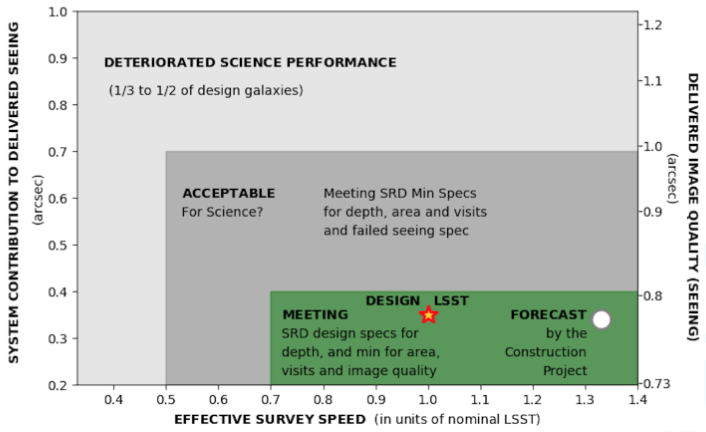
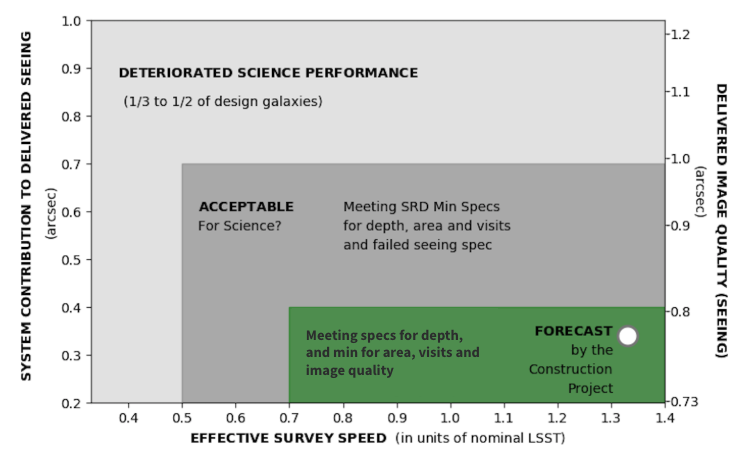
Post MB version with more criteria and draft process.

Changed region(s): [[0.0, 0.0, 0.9972, 0.9931], [0.4363, 0.4213, 0.6856, 0.5718]]

diff --git a/criteria.tex b/criteria.tex
@@ -4,43 +4,69 @@ Armed with an understanding of the {\it as--built} system performance as outline
 
 The criteria articulated below are meant only to provide gating guidance signifying the survey start. There will be key processes within the overall system, including data management and processing where further work for improvements are required or desired after handover (beyond the construction project requirements). Unless these would prevent the acquisition and saving of science quality data, thereby delaying the survey start, they are not discussed or enumerated here.  These and other criteria (TBD) will be used to gauge and monitor the overall performance of the Observatory and progress towards the 10--year survey objectives going forward, with nominal $T_0$ defined by when start criteria described herein are met.
 
-The initial set of criteria developed by Operations team were discussed with the Science Advisory Committee and community at the 2024 Rubin Community Workshop. These criteria have evolved since that meeting and are presented here in the table below.
+The initial set of criteria developed by Operations team were discussed with the Science Advisory Committee and community at the 2024 Rubin Community Workshop. These criteria have evolved since that meeting and are presented here in Table~\ref{tab:criteria}.
 
 \begin{table}[]
 \renewcommand{\arraystretch}{2}
 \small
 \centering
 \caption{Survey Start Criteria}\label{tab:criteria}
-\begin{tabular}{|p{0.25in}|p{1in}|p{4in}|p{1.0in}|}
+\begin{longtable}{|p{0.25in}|p{1in}|p{4in}|p{1.0in}|}
 \hline
 Item & Criterion & Description& Status \\
 \hline \hline
 
-1 & \makecell[l]{LSSTCam\\ Maintenance} & Before the completion of SV, it is understood whether or not off TMA Camera maintenance will be needed within the first year of Operations.& \makecell[l]{No off TMA \\maintenance\\ required.}  \\\hline  
+1 & \makecell[l]{LSSTCam\\ Maintenance} & Before the completion of SV, it is understood whether or not off TMA Camera maintenance will be needed within the first year of Operations.& \makecell[l]{\\No off TMA \\maintenance\\ required.\\}  \\\hline  
 
 2 & SRD & All science requirements that can be verified with SV data are verified or expected to be verified within 3 months of completion of SV. & Check status at CCR3 \\\hline
 
-3 & Dome & The dome environment is not limiting typical performance. &\makecell[l]{ Not controlled \\until after \\Handover} \\\hline
+3 & Dome & The dome environment is not limiting typical performance. &\makecell[l]{\\Not controlled \\until after \\Handover\\}\\\hline
 
 4 & Calibration & All necessary calibration data products are available at the time any LSST data are obtained or can be obtained after the fact without invalidating the observed data for inclusion in the LSST. & Check status at CCR3 \\\hline
 
-5 & DIQ & The ''System'' contribution to the measured Delivered Image quality is better than or equal to 0.45$\arcsec$ & \makecell[l]{Currently 0.6$\arcsec$ \\system \\contribution}\\\hline
+5 & DIQ & The ''System'' contribution to the measured Delivered Image Quality is better than or equal to 0.45$\arcsec$ & \makecell[l]{\\Currently 0.6$\arcsec$ \\system \\contribution\\}\\\hline
 
-6 & Normalized \'{E}tendue (\it{eF}) & Survey Speed  is $>$ 0.7. & Currently 0.68 \\\hline
+6 & DIQ Uniformity& The ''System'' contribution to the measured Delivered Image Quality can vary over the field of view such that 10$\%$ or less of the FOV has a system contribution of up to 0.52$\arcsec$ (see LSST system specifications LSR-REQ-0008.  & \makecell[l]{\\Currently\\ not meeting \\for typical\\images\\}\\\hline
 
-7 & Cadence & The scientific merits and technical feasibility of the planned survey scheduler algorithms for DR1 have bee reviewed and verified. & In progress\\\hline
+7 & Ellipticity & Ellipticity for a single image will typically be as specified in the LSST system requirements as  LSR-REQ-0092. This is $\leq$ 0.04 with 5$\%$ or fewer outliers beyond 0.07.& \makecell[l]{\\In SV, \\typically not \\meeting\\}\\\hline
 
-8 & Early Science & DP2 observations are completed as planned \citep{RTN-011}.& \makecell[l]{SV is complete; \\a report will be \\delivered by \\October.} \\
+8 & Normalized \'{E}tendue (\it{eF}) & Survey Speed  is $>$ 0.7. & Currently 0.68 \\
 
 \hline
-\end{tabular}
+\end{longtable}
+\end{table}
+
+\newpage 
+
+\begin{table}[]
+\renewcommand{\arraystretch}{2}
+\small
+\centering
+\caption*{Survey Start Criteria Continued}
+\begin{longtable}{|p{0.25in}|p{1in}|p{4in}|p{1.0in}|}
+\hline
+Item & Criterion & Description& Status \\
+\hline \hline
+
+10 & LHN ready & The Long Haul Network will be working reliably and not be a limiting factor in Alert Production & LHN is ready and not limiting Alert Production\\\hline
+
+11 & DM ready& The data management system is ready & DM is ready \\\hline
+
+12 & Early Science & DP2 observations are completed as planned \citep{RTN-011}.& \makecell[l]{\\SV is complete; \\a report will be \\delivered by \\October.\\} \\
+
+\hline
+\end{longtable}
 \end{table}
 
 The initial boundary conditions for determining the start criteria are that the construction project has successfully accomplished its own Construction Completeness Criteria (\cite{SITCOMTN-005}) and has passed the third Construction Completeness Review (CCR3).  Successful completion of CCR3 means NSF and DOE have accepted the system as the one that was intended to be built and will operate to conduct the 10-year LSST science program.  
 
 The survey start criteria cover a range of contexts.  The criteria are not meant to be comprehensive with respect to gauging and monitoring LSST's scientific progress and success. They are intended to serve as a guide for the confident commencement of the survey -- effectively establishing what will be referred to as LSST T$_0$.  Most of the defined criteria look to be well in hand based on what we know about commissioning progress and system performance as reported at CCR2/ORR1.  Of the 8 criteria enumerated we have identified what we call ''The Big 3,'' : Delivered Image Quality (DIQ) with two primary contributors -- (1) the interior dome environment plus (2) the hardware system (optics, tracking etc.), and (3) the survey speed or Normalized \'{E}tendue. 
 
-Looking at the criteria in Table~\ref{tab:criteria}, Item 1 is already met. We do not expect to have to remove the camera for maintenance before we begin the survey. Item 2 is needed to ensure some key aspects of the system don't need verification before we embark on the LSST. Some long term SRD requirements need a significant amount of data to finally validate. But we can be assured data being taken are going to be valid for the LSST if the requirements that can be validated with SV data have been validated. This will be confirmed at CCR3. The calibration system (item 4)  is in the advanced stages of validation. By CCR3, we can be assured no outstanding calibration needs will limit the taking of images for the LSST. For item 7, the Survey Cadence Optimization Committee has delivered to the Operations Directorate one (or more) proposed survey cadence algorithms to be implemented using the Feature Based Scheduler.  The scientific merits and technical feasibility of the proposed algorithm(s) will have been reviewed (If more than one proposal is provided a selection is made).  This selection will be the core algorithm adopted through LSST observations leading to the first data release DR1.  Remaining minor adjustments to the adopted algorithms are expected to be made as needed.  The adopted cadence algorithm has been verified with simulations using as--built performance, by on-sky operations using the Feature Based Scheduler.  Once SV data taking is complete, we will know the content of DP2 (item 8) and be able to decide whether or not any significant augmentations are critical for community preparation prior to data release 1 \citep[DR1; see][]{RTN-011}. 
+Looking at the criteria in Table~\ref{tab:criteria}, Item 1 is already met. We do not expect to have to remove the camera for maintenance before we begin the survey. Item 2 is needed to ensure some key aspects of the system don't need verification before we embark on the LSST. Some long term SRD requirements need a significant amount of data to finally validate. But we can be assured data being taken are going to be valid for the LSST if the requirements that can be validated with SV data have been validated. This will be confirmed at CCR3. The calibration system (item 4)  is in the advanced stages of validation. By CCR3, we can be assured no outstanding calibration needs will limit the taking of images for the LSST. 
+
+For item 9, the Survey Cadence Optimization Committee has delivered to the Operations Directorate one (or more) proposed survey cadence algorithms to be implemented using the Feature Based Scheduler.  The scientific merits and technical feasibility of the proposed algorithm(s) will have been reviewed (If more than one proposal is provided a selection is made).  This selection will be the core algorithm adopted through LSST observations leading to the first data release DR1.  Remaining minor adjustments to the adopted algorithms are expected to be made as needed.  The adopted cadence algorithm has been verified with simulations using as--built performance, by on-sky operations using the Feature Based Scheduler.  SV data taking is complete, so we know the content of DP2 from SV (item 12) and only now need to decide whether or not any significant augmentations are critical for community preparation prior to data release 1 \citep[DR1; see][]{RTN-011}. 
+
+For items 10 and 11, our SV experience shows these are ready, or in any case, sufficient for starting the survey. The Long Haul Network (LHN) has been working reliably and will not limit alert production. DM has produced, from end to end, Data Preview 1 \citep[DP1; see][]{RTN-095}. There is continuous development to be done, but nothing to stop the start of the survey.  
 
 This leaves ''The Big 3'' -- Delivered Image Quality (optics + dome environment) and Normalized \'{E}tendue.
 
@@ -50,6 +76,8 @@ The single most important gain needed to get to the LSST start is clearly the ty
 
 Improving the system contribution to the DIQ requires continued effort on the control of optics and the dome environment. Putting this together with the criteria above results in the region of the performance diagram we can use to gate starting the LSST as depicted in Figure~\ref{speed3}. The survey can begin once the system contribution to DIQ is 0.45$\arcsec$ or less and the effective survey speed is 1.01 or better (see Table~\ref{tab:factors} and assume System Availability is 75$\%$).
 
+Equally important for the image quality is that the typical LSST images meet the requirements for uniformity across the field of view and ellipticity for bright isolated stars. These are given in Table~\ref{tab:criteria}. For uniformity to start the survey, we identify the value of the allowed contribution in the worst quartile of the overall seeing profile given in the SRD. This is 0.52$\arcsec$. 
+
 \subsection{Dome Environmental Control}
 The dome will be the last major subsystem to be completed. Indeed it will not be done until mid 2026. The critical aspects that are needed are: to install, provide control for, and optimize the actuators for the dome louvers and the installation of the HVAC ductwork used for daytime thermal conditioning of the dome interior. There are 40 louvers, and some large fraction need to be operable (open at fractions consistent with telemetry in real time for temperatures and wind). The first actuators are installed now and one louver has been opened at night. Still more will need to be brought on line after the handover to meeting the system image quality criterion (we currently expect 12 will be operable after handover). If the louvers limit us to worse than typical system DIQ performance, we won't be able to start the LSST until they are largely deployed and in routine operation. 
 
@@ -57,7 +85,7 @@ There are large ducts that will provide conditioned air distribution supplied by
 
 Further use of available temperature sensors on the telescope and in the dome will help on going analyses aimed at improving the AOS and thermal control of the optics in real time. 
 
-The total contribution to DIQ from the dome environment is modest. Including all sources of turbulence generated by the facility, the budget (i.e residual contribution after control) to contribute to the DIQ is only 0.09$\arcsec$. Clearly all systems for controlling these contributions need to be working well and reliably. The observatory will need to rely on the ability to characterize parts of the DIQ coming from this environment. Thus we will prioritize reliable operation and calibration of our DIMM, in-dome seeing monitors, as well as the atmospheric profiler on Cerro Pach\'{on}, RINGSS.  
+The total contribution to DIQ from the dome environment is modest. Including all sources of turbulence generated by the facility, the budget (i.e residual contribution after control) to contribute to the DIQ is only 0.09$\arcsec$. Clearly all systems for controlling these contributions need to be working well and reliably. The observatory will need to rely on the ability to characterize parts of the DIQ coming from this environment. Thus we will prioritize reliable operation and calibration of our DIMM, in-dome seeing monitors, as well as the atmospheric profiler on Cerro Pach\'{o}n, RINGSS.  
 
 \subsection{Normalized \'{E}tendue}
 Much of the effective speed (Normalized  \'{E}tendue) is already demonstrated to be sufficient to start the LSST, The field of view factor, fA, is excellent and stable. The sensitivity factor, fS, is also very good. This factor has the potential to help overall performance because of its dependence on delivered image quality. Getting the system contribution from 0.6 to 0.4 (coupled with site free air atmospheric seeing of 0.7$\arcsec$) would raise fS from 0.94 to 1.3. Apart from this, all the optics are delivered as is the focal plane. The performance of all these components is excellent and can be maintained. The observing efficiency or fO is also in good shape. The telescope dynamic performance (slew speed, acceleration, and jerk) is sufficient for the LSST planned cadence. 

diff --git a/process.tex b/process.tex
@@ -1,0 +1,27 @@
+\section{Process to decide when to begin the LSST}
+
+In the following, we describe the process to reach the decision to start the LSST given an understanding of the state of the system and it's performance as outlined above. We envision three phases to be able to successfully start the LSST.  These are 1 Preparation phase; 2 Implementation phase; 3 Decision,$-$Approval$-$Launch phase. 
+
+\subsection{Preparation Phase (now - Oct 25th)}
+
+We are actively setting up an Early Operations Optimization Team which is distinct from the organization in the Rubin Operations steady state plan \citedsp{RDO-018}. This team is largely made up of staff from the Construction era SIT-COM (System Integration and Test $-$ Commissioning)  team who have just finished commissioning the system. This team, it's daily workflows and planning coupled with the nightly execution of observations by the Nighttime Operations Team is best placed to drive the final performance gains needed to get to LSST in this Early Operations period. For now, we envision this period to be Q1 FY26, but it could be shorter or longer. The team reports up through the AD for Rubin Summit Operations (RSO) and ten to the Directorate, 
+
+The Rubin Directorate in Operations has started discussion with NOIRLab Communications, SLAC Communications, Rubin EPO as well as SLAC and NOIRLab leadership on public engagement and Press Releases surrounding the start of the survey (including alert generation). Our plan is to develop the press release and engagement strategy so that it is ready when we are for the survey start. 
+
+We will set up with the Rubin team a Start of LSST Board (SLB). This board will consist of key members of the Early Operations Optimization team and is in fact a precursor to the Data Release Board \citep[DRB; see]{RDO-018}. The membership will include the ADs of the operations departments, the Head of LSST and the Deputy Head of LSST, and the former leads of integration, commissioning, and science validation from SIT-COM. This board will monitor progress on performance optimization and recommend to the Directorate when the system is ready for the start of the LSST. The SLB will be chaired by the Head of LSST.
+
+In this preparation phase, the Early Operations Optimization team will flesh out plans for engineering observations and performance tracking with the rest of the Rubin Operations team. Nightly workflows (observations, tests, analysis, metrics) will be defined and ready for the return to on-sky observing. Rubin System Performance will be rolling out key performance indicator (KPI) tools and tracking to assist with the ultimate decision to launch the survey. These tools and KPIs will continue to be developed throughout the LSST. The criteria and process to reach a decision for the start of the survey will be fully defined in this phase including how the criteria will be measured against on-sky performance. 
+
+Finally, as the preparation phase ends, we will communicate with our stakeholders and advisory/management bodies so that everyone knows what to expect as we emerge from the engineering shutdown and pre-survey maintenance period. We will confer with the SAC on RTN-093, and seek final approval for the criteria and process from the Rubin Management Board (RMB). The agencies will be notified of our plans. 
+
+\subsection {Implementation Phase (Oct 25 - Launch)}
+
+As we go back on sky, the Operations team will work with the Construction team on daily needs for high priority nighttime work as well as the punch list of items to finish construction. It is expected the punch list will require very few nights off sky. 
+
+In the beginning, most the observing will be engineering blocks to gather data on the changes to the system made as a result of the analysis of the data taken prior to the shutdown. Periodic observations sets (Blocks) will be obtained in survey mode (known as Feature--Based Scheduler, or FBS, mode) to gauge our trajectory in the performance space (e.g. Figure~\ref{speed3}. FBS Blocks will be sufficient in length to measure effective survey speed, median DIQ (and ellipticity and focal plane uniformity). The SLB will review the periodic performance and formally vote on starting the survey. If a consensus vote is not obtained, the Early Operations Optimization team, led by the AD or RSO, will make further tests for further analysis. This cycle will be repeated until consensus is reached. 
+
+In this period, we will communicate with stakeholders on progress. The communications group will ready our press release and other engagement elements so that we can engage quickly when the decision is made to start the survey. 
+
+\subsection{Decision$-$Approval$-$Launch phase}
+Once the SLB votes to start, they will bring this recommendation to Rubin Directorate. If the Directorate concurs with the recommendation, they will take it to the RMB for concurrence. If not, the Directorate will work with the SLB to resolve any final concerns. Once the RMB has concurred with the start decision, the agencies will be notified through the JOG and the survey will start. Assuming a successful start, the Early Operations Optimization team will be dissolved and members will take up their regular Operations roles. The SLB will continue as the DRB. 
+

diff --git a/speed.tex b/speed.tex
@@ -14,12 +14,12 @@ Rubin has developed a high level set of metrics summarizing the system performan
 These {\it f--factors} are defined to be dimensionless and normalized by the corresponding SRD derived design values. They can be traded against each other as time gained or lost.  For example, deterioration in the mirror reflectivity can be easily translated to factor fS, and traded against time (e.g. time lost to recoating, the system efficiency), or against loss of sensor area (fA).
 The key point is that it is possible to define a simple measurable quantity (fE) that is an excellent numerical approximation for LSST science goals. Thus, we can think of the effective speed of executing the LSST (in units of the nominal speed) in terms of recognizable elements:  fE $=$ effective area $\times$ effective FOV $\times$ cadence $\times$ 1-downtime.
 
-In Figure~\ref{speed}, we show the state of our understanding of the image quality and survey speed before we went on sky with LSSTCam. The red star in the diagram is the LSR design performance goal corresponding to 0.35$\arcsec$ system contribution to delivered image quality (DIQ as measure in the focal plane). The white circle is a forecast based on expectations before we went on sky. We believe there is nothing limiting us reaching that circle, but the current performance is not there yet. 
+In Figure~\ref{speed}, we show the state of our understanding of the image quality and survey speed before we went on sky with LSSTCam. The white circle is a forecast based on expectations before we went on sky with some as built elements of the system accounted for. We believe there is nothing limiting us reaching that circle, but the current performance is not there yet. 
 
 \begin{figure}[t]
 \centering
 \includegraphics[width=0.85\linewidth]{speed.png}
-\caption{Image quality versus effective survey speed, fE. The system contribution to the image quality is shown on the left vertical axis and the delivered image quality including the atmosphere (added in quadrature) is on the right. The LSST design is accomplished with nominal speed 1.0 and system contribution to DIQ of 0.4$\arcsec$ in this diagram. Current performance is assessed below. The white circle is representative of where we want to drive the performance, but we have not reached it yet.}
+\caption{Image quality versus effective survey speed, fE. The system contribution to the image quality is shown on the left vertical axis and the delivered image quality including the atmosphere (added in quadrature) is on the right. The LSST specifications are  accomplished with nominal speed 1.0 and system contribution to DIQ of 0.4$\arcsec$ in this diagram. Current performance is assessed below. The white circle is representative of where we want to drive the performance, but we have not reached it yet.}
 \label{speed}
 \end{figure}
 
@@ -36,7 +36,7 @@ The range of performance between what has been achieved over periods of SV and t
 \caption{Current f factor status}\label{tab:factors}
 \begin{tabular}{cccc}
 \hline
-factor & Description& Sustained Performance & Needed to Start LSST \\
+factor & Description& SV Sustained Performance & Needed to Start LSST \\
 \hline \hline
 DIQ & System Contribution (PSF FWHM)  & 0.6$\arcsec$ & 0.45$\arcsec$ \\
 fA & FoV area factor & 0.99 & 0.99 \\

diff --git a/acronyms.tex b/acronyms.tex
@@ -2,6 +2,7 @@
 \begin{longtable}{p{0.145\textwidth}p{0.8\textwidth}}\hline
 \textbf{Acronym} & \textbf{Description}  \\\hline
 
+AD & Associate Director \\\hline
 AOS & Active Optics System \\\hline
 AURA & Association of Universities for Research in Astronomy \\\hline
 CCR & Construction Completeness Review \\\hline
@@ -11,37 +12,47 @@ CCR3 & Construction Completeness Review 3 \\\hline
 CCR4 & Construction Completeness Review 4 \\\hline
 DIMM & Differential Image Motion Monitor \\\hline
 DIQ & Delivered Image Quality \\\hline
+DM & Data Management \\\hline
 DOE & Department of Energy \\\hline
+DP1 & Data Preview 1 \\\hline
 DP2 & Data Preview 2 \\\hline
 DR1 & Data Release 1 \\\hline
+DRB & Data Release Board \\\hline
+EPO & Education and Public Outreach \\\hline
+FBS & Feature-Based Scheduler \\\hline
 FOV & field of view \\\hline
 FTE & Full-Time Equivalent \\\hline
 FWHM & Full Width at Half-Maximum \\\hline
 FY26 & Fiscal Year 2026 \\\hline
 FoV & Field of View (also denoted FOV) \\\hline
 HVAC & Heating, Ventilation, and Air Conditioning \\\hline
+JOG & Joint Oversight Group \\\hline
+LHN & long haul network \\\hline
 LPM & LSST Project Management (Document Handle) \\\hline
 LSE & LSST Systems Engineering (Document Handle) \\\hline
 LSR & LSST System Requirements; LSE-29 \\\hline
 LSST & Legacy Survey of Space and Time (formerly Large Synoptic Survey Telescope) \\\hline
-M1M3 & Primary Mirror Tertiary Mirror \\\hline
+LSSTCam & LSST Science Camera \\\hline
+M1M3 & Single piece of glass for Primary Mirror/Tertiary Mirror \\\hline
 M2 & Secondary Mirror \\\hline
 MREFC & Major Research Equipment and Facility Construction \\\hline
 NOIRLab & NSF's National Optical-Infrared Astronomy Research Laboratory; \url{https://noirlab.edu} \\\hline
 NSF & National Science Foundation \\\hline
-OPS & Operations \\\hline
 ORR & Operations Readiness Review \\\hline
 ORR1 & Operations Readiness Review 1 \\\hline
 ORR2 & Operations Readiness Review 2 \\\hline
 OSS & Observatory System Specifications; LSE-30 \\\hline
 PSF & Point Spread Function \\\hline
 PSTN & Project Science Technical Note \\\hline
+Q1 & Quarter one \\\hline
 QE & quantum efficiency \\\hline
 RDO & Rubin Directors Office \\\hline
 RINGSS &  \\\hline
 RTN & Rubin Technical Note \\\hline
 SA & System and Services Acquisition \\\hline
+SAC & Science Advisory Committee \\\hline
 SCOC & Survey Cadence Optimization Committee \\\hline
+SIT & System Integration, Test \\\hline
 SLAC & SLAC National Accelerator Laboratory \\\hline
 SRD & LSST Science Requirements; LPM-17 \\\hline
 SV & Science Validation \\\hline

diff --git a/schedule.tex b/schedule.tex
@@ -26,3 +26,5 @@ Following CCR3/ORR2 and the concurrent "Handover", the Operations team will begi
 \caption{Rubin Observatory Schedule as of September 01, 2025. Formal completeness reviews including operations readiness are shown in the Figure and described above. Handover to the Operations is set for October 25, 2025 and pre-survey optimization will continue until the performance criteria described in this document are met for starting the LSST. In parallel, some activities and work by the Construction team will continue in FY26. Some of these activities will positively impact on sky performance. }
 \label{sched}
 \end{figure}
+
+\newpage

diff --git a/RTN-093.tex b/RTN-093.tex
@@ -48,7 +48,10 @@ This document concisely captures the criteria that must be satisfied to begin re
   \addtohist{1}{2025-09-01}{02.0 Criteria and Schedule updates}{Robert Blum}
 }
 \graphicspath{{./}{figures/}}
+
 \usepackage{makecell}
+
+\usepackage{longtable}
 
 \begin{document}
 
@@ -63,6 +66,7 @@ This document concisely captures the criteria that must be satisfied to begin re
 \input{intro}
 \input{speed}
 \input{criteria}
+\input{process}
 \input{schedule}
 
 %\appendix
